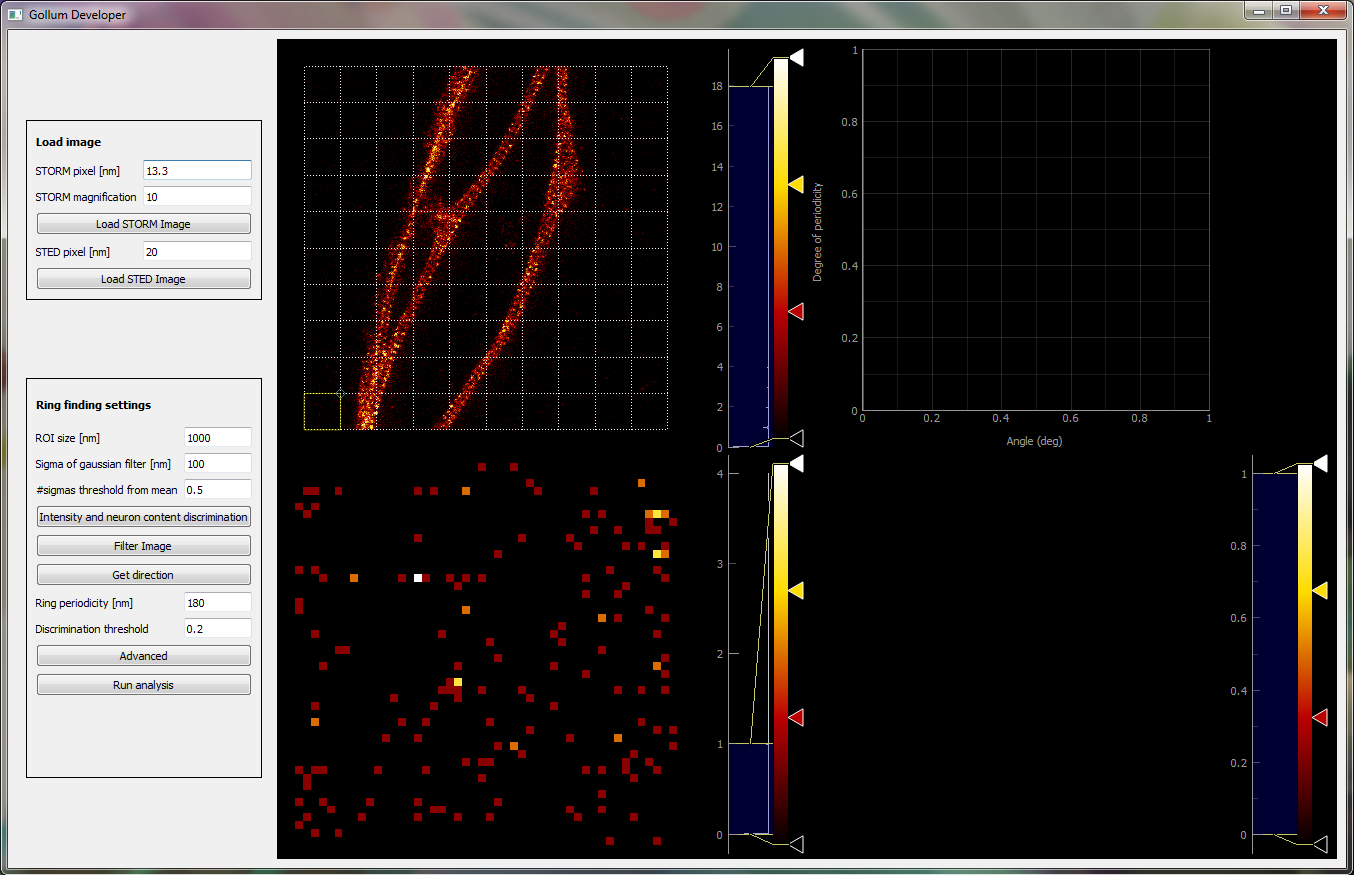
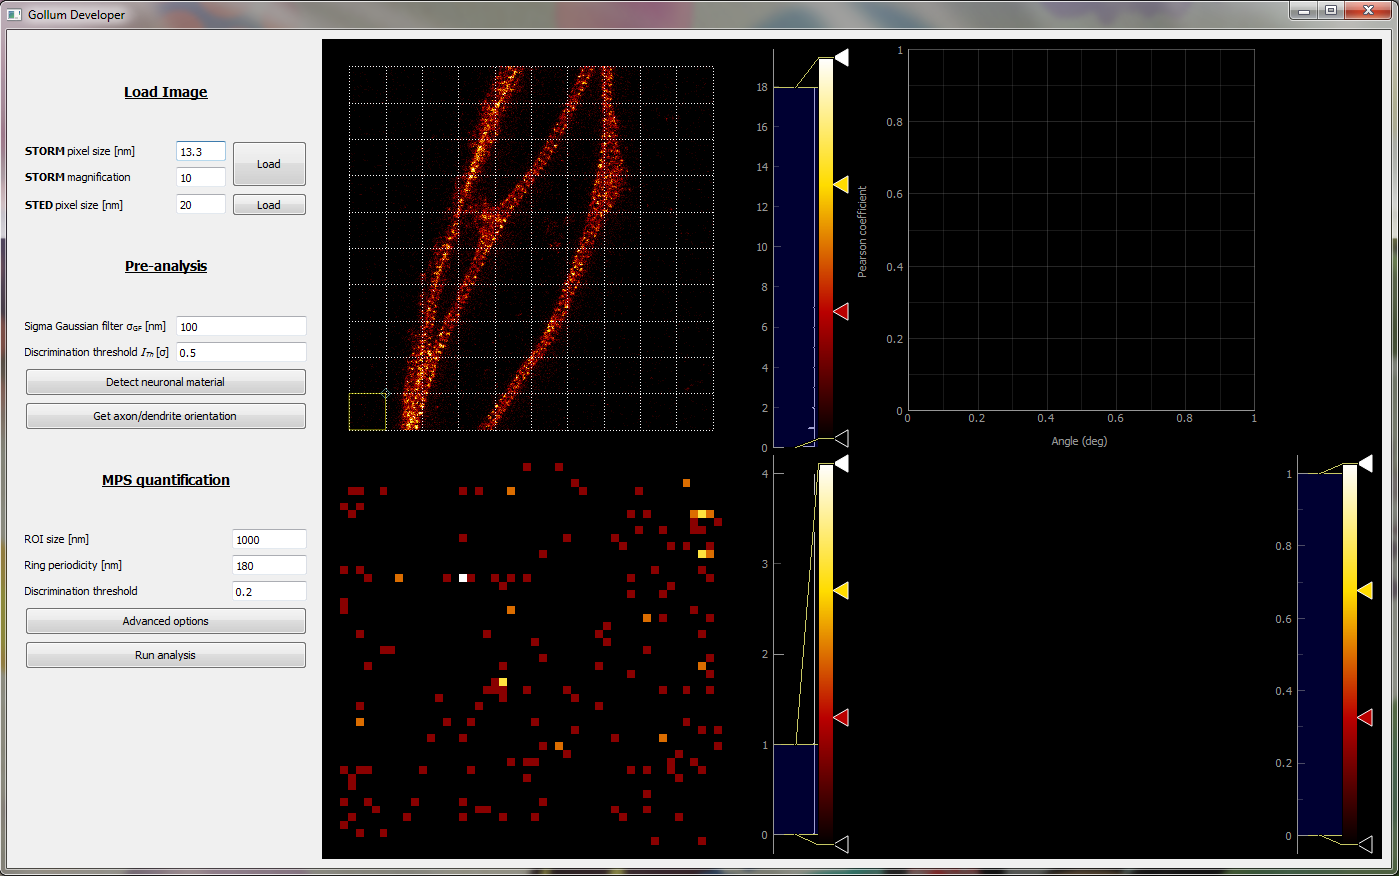
Design, new screenshots

diff --git a/ringfinder/ringFinder.py b/ringfinder/ringFinder.py
@@ -179,8 +179,8 @@ class Gollum(QtGui.QMainWindow):
         buttonsLayout.addWidget(self.showCorrMapCheck, 9, 0, 1, 3)
         buttonsLayout.addWidget(self.corrButton, 10, 0, 1, 3)
         buttonsLayout.setRowMinimumHeight(4, 20)
-        buttonsLayout.setColumnMinimumWidth(0, 100)
-        self.buttonWidget.setFixedWidth(300)
+        buttonsLayout.setColumnMinimumWidth(0, 140)
+        self.buttonWidget.setFixedWidth(270)
 
         # layout of the three widgets
         self.mainLayout.addWidget(self.buttonWidget, 1, 0)
